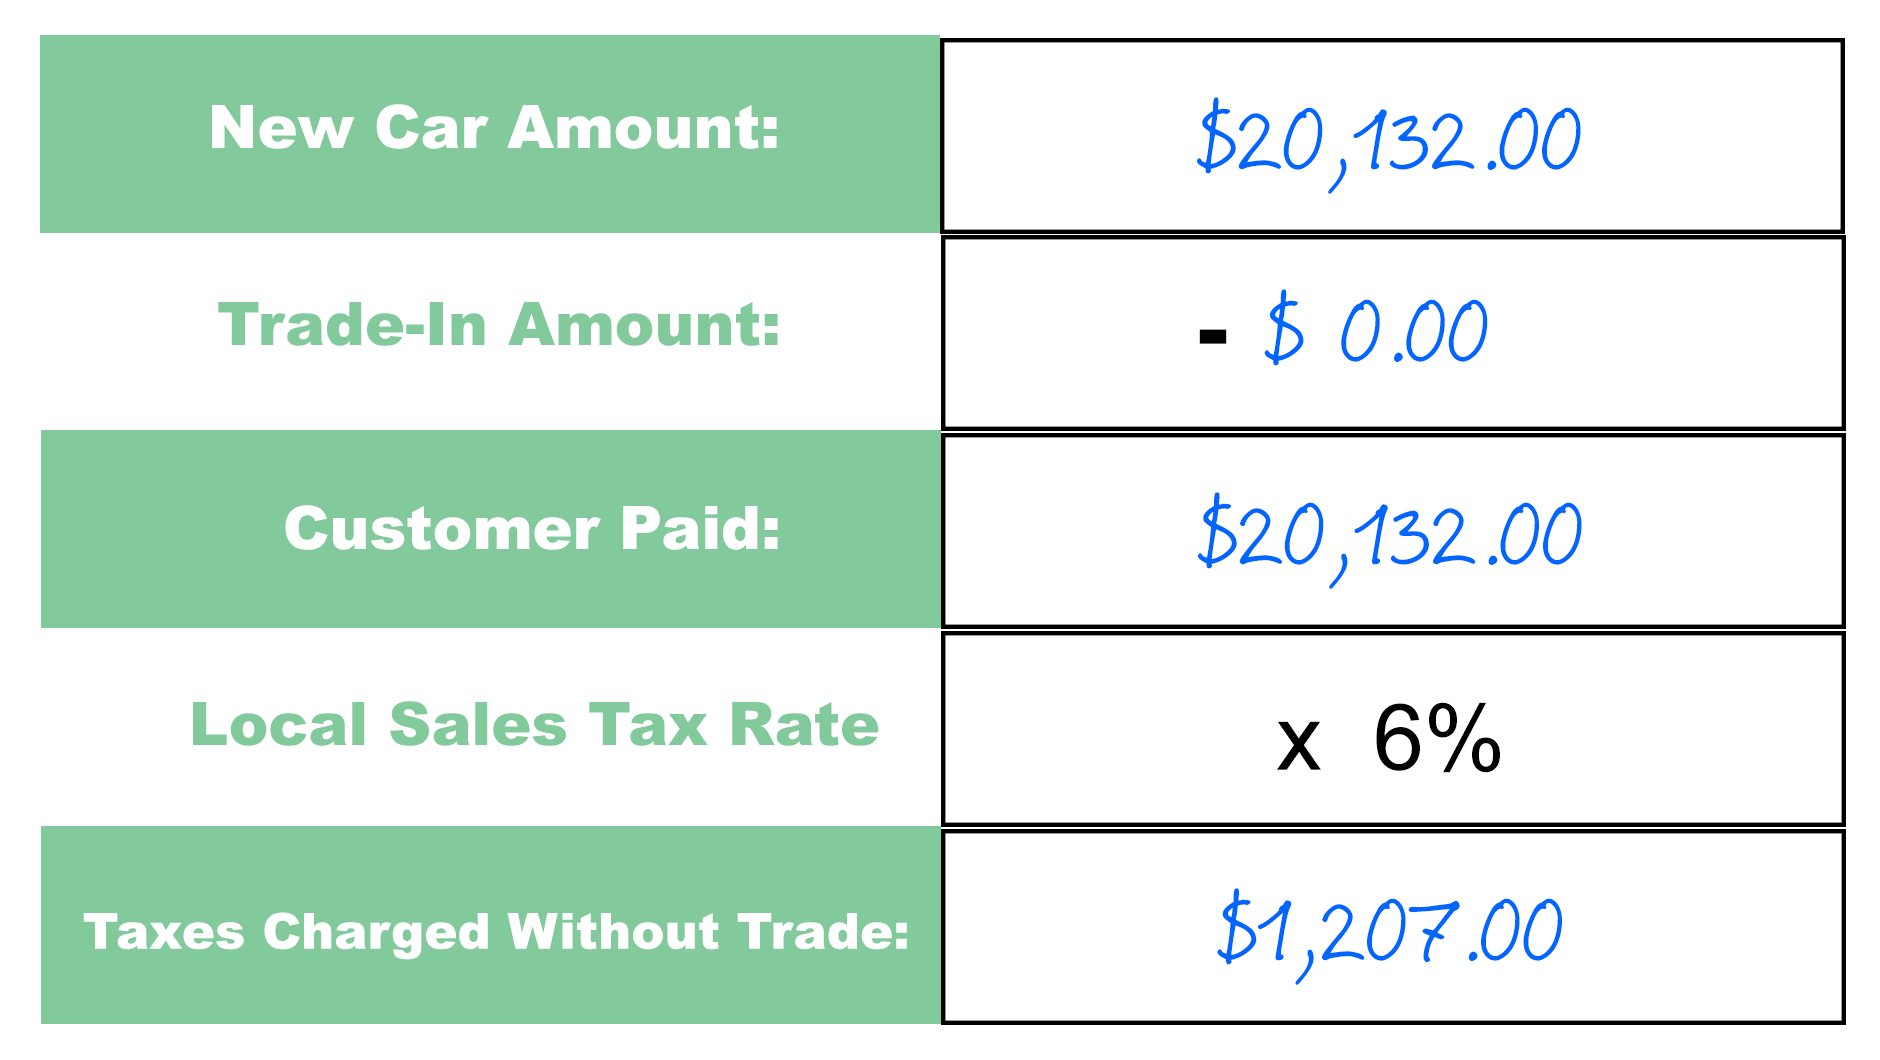
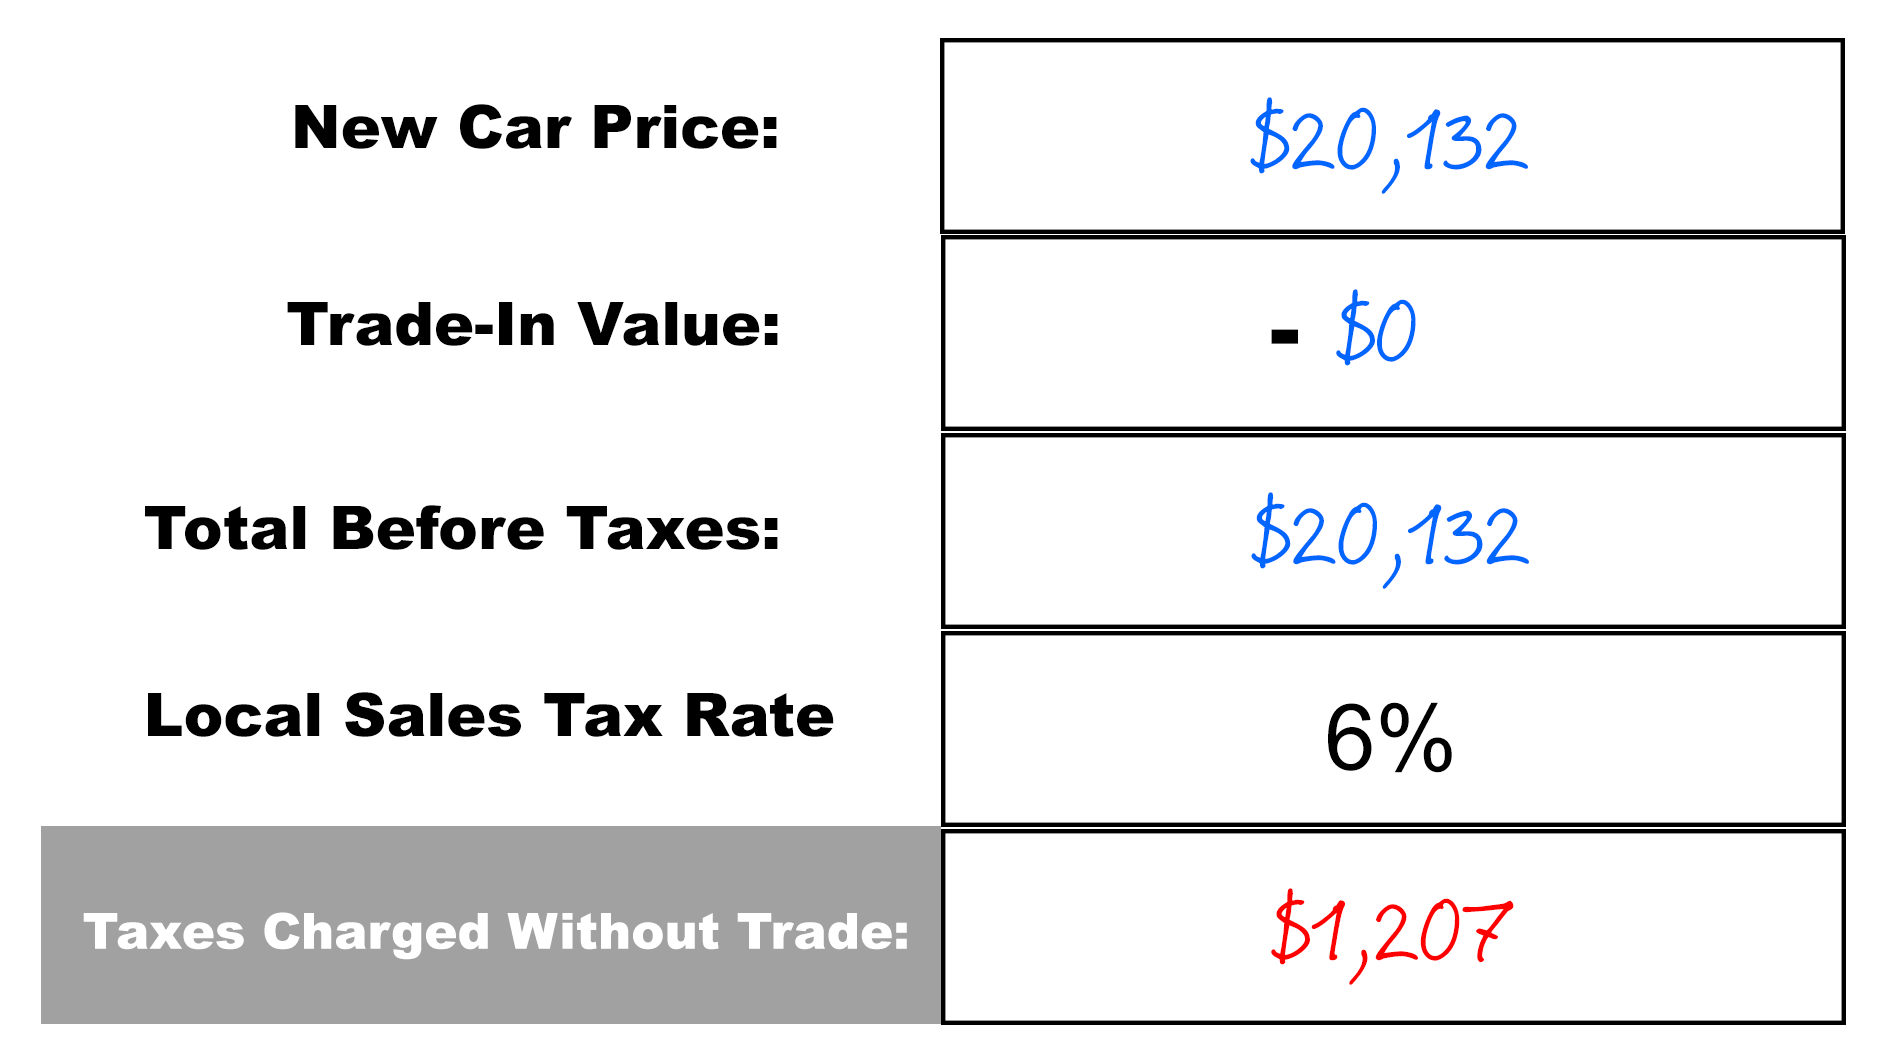
Final Edits and new images-Calc

diff --git a/index.html b/index.html
@@ -508,10 +508,10 @@ h1 {
 
 <body><div class="desktopOnly">
 <div><a href="https://www.autonation.com/sell-my-car" target="_blank"><img class="desktopOnly" src="http://images.harmony.epsilon.com/ContentHandler/images?id=8b1ed1e1-dace-4d31-9389-1c1624dfea82" alt="Save on Taxes" /></a></div>
-<div class="headline">Did you know most states offer a tax credit towards new vehicle when you trade in your existing vehicle?
-  <div class="subHeadline" style="padding-top: 20px;color: #e61464">It's Pretty Simple!</div>
+<div class="headline">Did you know most states offer a tax credit towards a new vehicle when you trade in your existing vehicle?
+
 </div>
-<div class="bodyCopy"> For example, if you are buying a new car for <strong>$20,132</strong> and AutoNation will give you <strong>$13,500</strong> for your trade, you will only pay sales tax on the <strong>$6,632</strong> difference. If sales tax in your state is <strong>6 percent</strong>, the tax would be <strong>$398</strong>. Without the trade value sales tax on the purchase increases to <strong>$1,207</strong>. </div>
+<div class="bodyCopy"> For example, if you're buying a new car for <strong>$20,132</strong> and AutoNation is giving you <strong>$13,500</strong> for your trade, you will only pay sales tax on the <strong>$6,632</strong> difference. If the sales tax in your state is <strong>6%</strong>, the tax would be <strong>$398</strong>. Without the trade-in value, sales tax on the purchase increases to <strong>$1,207</strong>. </div>
 
 	<div class="terHeadline">AutoNation saved this Miami customer <strong>$809</strong> in taxes on their new 2018 Chevrolet Cruze!</div>
 	 <!--<div class="divTableHead" >With Trade-In</div>
@@ -522,16 +522,17 @@ h1 {
 <div class="divTable " style="padding-top: 10px;">
   <div class="divTableBody">
     <div  class="divTableRow">
-		<div class="divTableHead" >With Trade-In</div>
+		<div class="divTableHead" style="color: green" >With Trade-In</div>
 		<div class="divTableHead" >Without Trade-In</div>
       
  
 	 
+		
     </div>
 	  <div  class="divTableRow">
-      <div  class="divTableCell" style="text-decoration: underline;"><a href="https://www.autonation.com/sell-my-car" target="_blank"><img class="desktopOnly" src="http://images.harmony.epsilon.com/ContentHandler/images?id=5904c896-ca68-484f-aadb-fb528563f224" alt="Save on Taxes" /></a></div>
+      <div  class="divTableCell" style="text-decoration: underline;"><a href="https://www.autonation.com/sell-my-car" target="_blank"><img class="desktopOnly" src="images/Artboard 1.png" alt="Save on Taxes" /></a></div>
  
-		<div  class="divTableCell" style="text-decoration: underline;"><a href="https://www.autonation.com/sell-my-car" target="_blank"><img class="desktopOnly" src="http://images.harmony.epsilon.com/ContentHandler/images?id=0d9ae97d-2db5-449d-bb58-28d512265a08" alt="Save on Taxes" /></a></div>
+		<div  class="divTableCell" style="text-decoration: underline;"><a href="https://www.autonation.com/sell-my-car" target="_blank"><img class="desktopOnly" src="images/Artboard 1w_out trade.png" alt="Save on Taxes" /></a></div>
       
     </div>
 	   
@@ -541,8 +542,8 @@ h1 {
 </div>
 	
 	
-<div class="subHeadline" style="color: #e61464">You Save $809 on Taxes!</div>
-	
+<div class="subHeadline" style="color: #e61464">$809 in Tax Savings!<br> It's Pretty Simple!</div>
+
 	<div class="divTable" style="padding-top: 10px;">
   <div class="divTableBody">
     <div  class="divTableRow">
@@ -560,7 +561,7 @@ h1 {
     </div>
   </div>
 	<div style="padding-top: 20px; width: 100%;">
-	<div class="subHeadline" style="background-color: #69768c;color: #ffffff;" >Or Browse New Vehicles Near You!</div></div>
+	<div class="subHeadline" style="background-color: #69768c;color: #ffffff;" >Check Out These Vehicles Near You!</div></div>
 </div>
 	
 	
